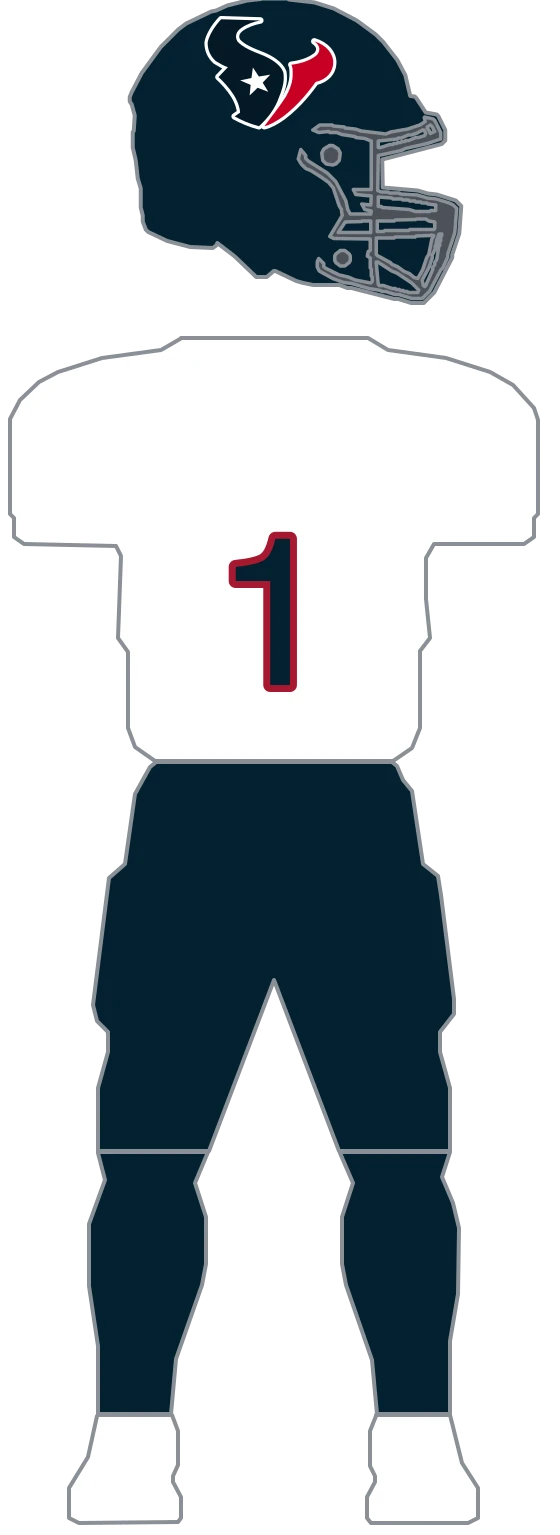
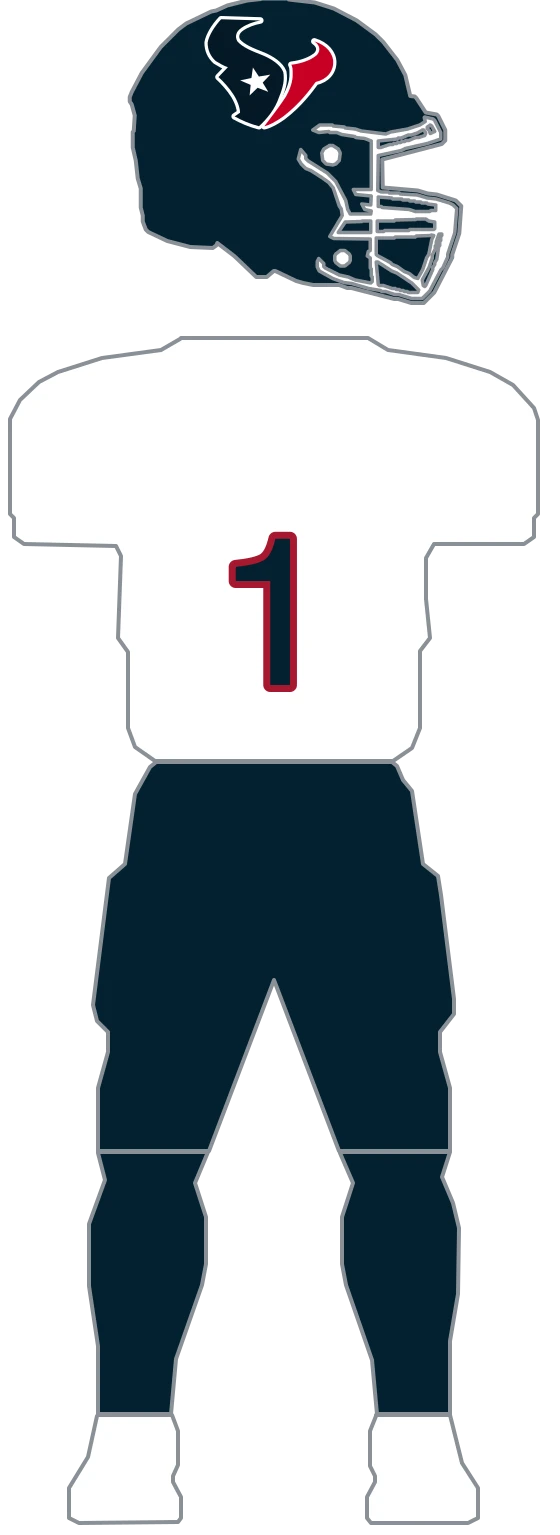
feat(uniforms): migrate Texans to composable parts and set its white facemask (#683)
Houston wears TWO different helmet marks: the two navy kits (home, away) share
the SAME navy shell with the hand-drawn bull (white keyline, navy head, red
horn, white star), and Battle Red wears a red shell with its own large stylized
horn. The three bodies and three pants differ: home navy-over-white, away
white-over-navy, Battle Red red-over-red. Parts express that: 2 helmets (H1
navy bull, H2 red horn), 3 jerseys, 3 pants, matching the measured target. The
bull is fixed art (same three colors on every shell), so it takes palette
literals rather than tokens.

The migration's parity gate proved all 9 texans rasters (3 kits x 2 variants)
byte-identical against the flat definition, then the flat definition and its
builder helpers were deleted and the team removed from MIGRATED, per the
one-time-proof lifecycle (depth#660). The collar arcs (`texans-collar-*`) were
module-private consts in the flat; they are now exported for the parts file.

Facemask follows the parts migration per phase order: both Texans shells wear
a white facemask (named sources; the GUD composite reads the white cage
cleanly against both the navy and red shells). Only the three -full rasters
move, each change confined to its helmet region.

Changed region(s): [[0.5768, 0.0612, 0.8196, 0.1837], [0.5464, 0.0919, 0.6071, 0.1225], [0.7286, 0.1837, 0.7589, 0.2143]]

diff --git a/lib/uniforms/teams/texans.ts b/lib/uniforms/teams/texans.ts
@@ -1,49 +1,15 @@
-import type { ColorRef, TeamUniformDefinition, UniformLayer } from './types';
+// Houston's construction geometry — the bull and Battle-Red horn paths, the collar arcs, and
+// the fixed construction colors only. The composable parts definition that consumes them lives in
+// ./texans.parts.ts; the former flat TEXANS_UNIFORMS was deleted in the migration that proved
+// parts render byte-identically (see parts-parity.test.ts for the one-time gate).
 
-// Houston's three archived kits, redrawn from the Gridiron Uniform Database 2025 composite in
-// nfl-uniform-refs/texans (home is that sheet's row-1 figure 1, away its row-1 figure 5, Battle Red
-// its row-2 figure 3). Right paths mirror the left across the centerline x=294.
-//
-// This is a minimal uniform and the module is correspondingly small — that is the measurement, not
-// an omission. No sleeve stripe, no pant stripe, no helmet stripe. The home kit carries a collar
-// trim; the other two carry none at all, so their only construction is the numeral treatment.
-//
-// The club's bull-horn mark sits on each sleeve and is NOT authored — at about 13x18 reference px
-// with a sub-2px white sliver through it, it is stroke-bearing detail well under the ~25px floor.
-//
-// HOUSTON WEARS TWO DIFFERENT HELMET MARKS, and this module authors both — differently, which is
-// the point of the note below.
-//
-// The BATTLE RED kit (row-2 figure 3) wears a large stylized horn sweeping across the whole crown,
-// drawn as one solid navy shape on a red shell. That path is a machine contour trace of GUD's
-// illustration and is a trace, not original geometry (see the provenance note below).
-//
-// The NAVY kits wear the club's standard bull HEAD — compact, horned, with a face, a red right half
-// and a white star. It is NOT the same mark, and an earlier pass that assumed it was painted the
-// Battle Red horn onto the home and away shells. What let that through was a weak registration
-// check: the away figure's star and red half landed *inside* the horn's silhouette, which they will
-// for almost any large shape. WHEN REUSING A MARK ACROSS FIGURES, COMPARE THE OUTLINES, not whether
-// the small features fall somewhere inside.
-//
-// THE BULL BELOW IS HAND-DRAWN, NOT TRACED, and it is the first mark in this archive to be so. It
-// is composed of cubic Beziers written directly, laid out in a 0-100 design box mapped onto the raw
-// helmet space at x284-554, y104-350 — where GUD draws the mark on the shell. Its proportions were
-// read off a percentage grid over a reference rendering: horn sweep, where the head narrows, where
-// the star sits. No path data was lifted from any source file. Verified by measuring the drawn
-// shape's horizontal extents at every eighth of its height against the same measurement of the
-// reference, which is a check the eye does not do reliably.
-//
-// This route was taken because the mark CANNOT be traced from the GUD sheet, for two coincident
-// reasons that are worth keeping: the bull's body is exactly the shell navy — both sample
-// (3,24,37) — so no predicate selects it; and its white keyline is drawn DASHED at that scale, so
-// nothing encloses it either. A morphological closing does not rescue it, because bridging gaps
-// that wide needs a dilation whose matching erosion guts the horns. Either problem alone is
-// survivable; Atlanta has the identical body-equals-shell collision and traces fine, because its
-// keyline is an unbroken ring.
-//
-// The keyline here is a STROKE rather than a grown fill, which is safe only because these curves
-// are hand-drawn and smooth. On a machine trace it would spike at every reversal, since this
-// renderer exposes no strokeLinejoin — that is why Detroit's is a grown fill instead.
+// HOUSTON WEARS TWO DIFFERENT HELMET MARKS. The navy kits wear the club's standard bull HEAD —
+// compact, horned, with a face, a red right half and a white star. It is hand-drawn (cubic
+// Beziers in a 0-100 design box mapped onto raw helmet space at x284-554, y104-350), NOT traced:
+// the bull's body is exactly the shell navy and its white keyline is drawn dashed at that scale,
+// so no predicate selects it. The keyline is a STROKE rather than a grown fill, safe only because
+// these curves are hand-drawn and smooth. The Battle Red kit wears a large stylized horn sweeping
+// the whole crown, a machine contour trace of GUD's illustration.
 export const TEXANS_BULL_NAVY_PATH =
   'M397.4,320.5 C413.6,305.7 429.8,286.0 437.9,261.4 C446.0,241.8 448.7,227.0 446.0,212.2 C440.6,197.5 421.7,185.2 402.8,177.8 C383.9,170.4 365.0,163.0 354.2,150.7 C348.8,140.9 351.5,131.1 362.3,123.7 C373.1,116.3 386.6,111.4 400.1,108.9 L321.8,106.5 C308.3,121.2 297.5,138.4 294.8,153.2 C294.8,168.0 300.2,180.3 311.0,190.1 C319.1,195.0 327.2,199.9 335.3,202.4 L316.4,222.1 C327.2,231.9 338.0,244.2 346.1,256.5 C354.2,268.8 359.6,283.6 359.6,293.4 L348.8,300.8 C362.3,308.2 378.5,315.6 397.4,320.5 Z';
 export const TEXANS_BULL_RED_PATH =
@@ -63,122 +29,13 @@ export const TEXANS_DECAL_RED = '#C80023'; // sampled (200,0,35)
 export const TEXANS_BATTLE_RED_DECAL_PATH =
   'M426.7,115.2 L483.8,118.4 L494.0,123.1 L505.7,123.9 L510.4,129.4 L480.7,138.0 L465.8,138.8 L438.4,149.8 L429.1,150.5 L407.2,166.2 L399.4,181.9 L399.4,200.8 L420.5,222.7 L451.0,241.6 L543.2,285.5 L587.8,299.7 L596.4,305.1 L606.5,305.9 L615.1,311.4 L625.3,312.2 L633.9,317.7 L660.5,323.2 L683.9,324.0 L681.6,327.1 L642.5,332.6 L623.0,326.3 L602.6,326.3 L592.5,321.6 L560.4,318.5 L554.2,314.6 L521.3,313.8 L508.8,320.8 L504.1,327.9 L499.4,327.1 L493.2,320.8 L483.8,319.3 L479.9,314.6 L471.3,313.0 L467.4,308.3 L434.5,294.2 L372.8,250.2 L354.0,225.9 L348.5,203.1 L361.0,167.0 L352.4,164.7 L338.4,181.1 L325.9,196.8 L323.5,211.8 L318.8,218.8 L325.1,262.0 L337.6,289.5 L384.5,336.5 L434.5,367.1 L441.6,367.1 L449.4,373.4 L472.8,380.5 L475.2,389.9 L488.5,405.6 L540.1,438.6 L546.3,456.6 L549.5,455.8 L549.5,465.2 L554.9,470.7 L556.5,482.5 L439.2,444.1 L349.3,400.9 L328.2,387.6 L297.7,360.9 L273.5,327.1 L266.4,312.2 L264.9,298.9 L260.2,291.0 L254.7,243.1 L258.6,238.4 L260.2,218.0 L266.4,201.6 L284.4,174.9 L304.0,154.5 L329.8,135.6 L360.3,123.9 L379.8,122.3 L387.6,117.6 L425.9,116.0 Z';
 
-// Out of scope on every kit: the chest wordmark, the league shield, the "H-TOWN" collar tab, the
-// sleeve mark above, and the shoulder numerals.
-
 // White is a literal on the home kit only. Its palette is navy over red with accent === secondary
 // (ESPN supplies only two colors), so nothing resolves to its white pants or white numeral face.
 export const TEXANS_WHITE = '#FFFFFF';
 
-// The collar, measured on the home figure (jersey top y=135, sleeve hem y=201, figure center
-// x=100.5, so scaleY = 191/66 and scaleX = 264/84.5). The red band runs from reference (74,138) to
-// (87,161) and mirrored. Extrapolated, the arms would not meet until y=186 — well past where the
-// color stops — so this is two arcs, not a chevron, the same shape Jacksonville and Denver wear.
-const TEXANS_COLLAR_LEFT = 'M211,392 L252,458';
-const TEXANS_COLLAR_RIGHT = 'M377,392 L336,458';
-const TEXANS_COLLAR_WIDTH = 10;
-
-const GENERIC_STRIPPED = [
-  'generic-helmet-stripe',
-  'generic-sleeve-yoke-left',
-  'generic-sleeve-yoke-right',
-  'generic-sleeve-stripe-left',
-  'generic-sleeve-stripe-right',
-  'generic-collar',
-  'generic-pants-stripe-left',
-  'generic-pants-stripe-right',
-];
-
-function collar(stroke: ColorRef): UniformLayer[] {
-  return [
-    ['texans-collar-left', TEXANS_COLLAR_LEFT],
-    ['texans-collar-right', TEXANS_COLLAR_RIGHT],
-  ].map(([id, d]) => ({
-    id,
-    surface: 'collar' as const,
-    d,
-    clip: true,
-    kind: 'stroke' as const,
-    stroke,
-    strokeWidth: TEXANS_COLLAR_WIDTH,
-  }));
-}
-
-// The bull the navy shells wear: white keyline under a navy head and a red horn, star last.
-function bullDecal(): UniformLayer[] {
-  const keyline: UniformLayer[] = (
-    [
-      ['texans-bull-keyline-navy', TEXANS_BULL_NAVY_PATH],
-      ['texans-bull-keyline-red', TEXANS_BULL_RED_PATH],
-    ] as [string, string][]
-  ).map(([id, d]) => ({
-    id,
-    surface: 'helmet' as const,
-    d,
-    clip: true,
-    kind: 'stroke' as const,
-    stroke: TEXANS_WHITE,
-    strokeWidth: TEXANS_BULL_KEYLINE_WIDTH,
-  }));
-
-  const fills: UniformLayer[] = (
-    [
-      ['texans-bull-head', TEXANS_BULL_NAVY_PATH, TEXANS_DECAL_NAVY],
-      ['texans-bull-horn', TEXANS_BULL_RED_PATH, TEXANS_DECAL_RED],
-      ['texans-bull-star', TEXANS_BULL_STAR_PATH, TEXANS_WHITE],
-    ] as [string, string, ColorRef][]
-  ).map(([id, d, fill]) => ({
-    id,
-    surface: 'helmet' as const,
-    d,
-    clip: true,
-    kind: 'fill' as const,
-    fill,
-  }));
-
-  return [...keyline, ...fills];
-}
-
-// The Battle Red shell's own, different mark.
-function battleRedDecal(): UniformLayer[] {
-  return [
-    {
-      id: 'texans-decal-battle-red-horn',
-      surface: 'helmet',
-      d: TEXANS_BATTLE_RED_DECAL_PATH,
-      clip: true,
-      kind: 'fill',
-      fill: TEXANS_DECAL_NAVY,
-    },
-  ];
-}
-
-export const TEXANS_UNIFORMS: TeamUniformDefinition = {
-  teamId: 'texans',
-  defaults: { removeLayerIds: GENERIC_STRIPPED },
-  kits: {
-    // Navy body over white pants under the navy shell. Red is `secondary` and accent === secondary,
-    // so red carries the collar and the numeral keyline while white — which this palette cannot
-    // supply — takes the literal for both the pants and the numeral face.
-    home: {
-      pantsColor: TEXANS_WHITE,
-      layers: [...collar('secondary'), ...bullDecal()],
-      number: { fill: TEXANS_WHITE, outline: 'secondary', outlineWidth: 14 },
-    },
-    // White body over navy pants under the navy shell, and no collar trim — the reference draws its
-    // neckline in outline only. The away palette moves white into primary, navy into secondary and
-    // red into accent, so the numerals invert to a navy face on a red keyline.
-    away: {
-      helmetColor: 'secondary',
-      pantsColor: 'secondary',
-      layers: bullDecal(),
-      number: { fill: 'secondary', outline: 'accent', outlineWidth: 14 },
-    },
-    // Red body, pants and shell, all `primary`, and no collar trim. Navy moves to `secondary` and
-    // white is available as `accent`, so the numerals need no literal here.
-    'battle-red': {
-      layers: battleRedDecal(),
-      number: { fill: 'secondary', outline: 'accent', outlineWidth: 14 },
-    },
-  },
-};
+// The collar, measured on the home figure. The red band runs from reference (74,138) to (87,161)
+// and mirrored. Extrapolated, the arms would not meet until y=186 — so this is two arcs, not a
+// chevron, the same shape Jacksonville and Denver wear.
+export const TEXANS_COLLAR_LEFT = 'M211,392 L252,458';
+export const TEXANS_COLLAR_RIGHT = 'M377,392 L336,458';
+export const TEXANS_COLLAR_WIDTH = 10;

diff --git a/lib/uniforms/teams/texans.parts.ts b/lib/uniforms/teams/texans.parts.ts
@@ -1,0 +1,185 @@
+// Houston authored as composable parts. Geometry is imported unchanged from texans.ts — this file
+// only restates WHICH parts each kit combines, and names every color from the team palette instead
+// of the kit row's shifting primary/secondary/accent.
+//
+// This is a minimal uniform: no sleeve stripe, no pant stripe, no helmet stripe. The two navy
+// kits (home, away) share the SAME navy shell wearing the hand-drawn bull (white keyline, navy
+// head, red horn, white star); the Battle Red kit wears a RED shell with its own different mark, a
+// large stylized horn sweeping the crown. The three bodies and three pants differ: home is
+// navy-over-white, away white-over-navy, Battle Red red-over-red.
+
+import {
+  TEXANS_BATTLE_RED_DECAL_PATH,
+  TEXANS_BULL_KEYLINE_WIDTH,
+  TEXANS_BULL_NAVY_PATH,
+  TEXANS_BULL_RED_PATH,
+  TEXANS_BULL_STAR_PATH,
+  TEXANS_COLLAR_LEFT,
+  TEXANS_COLLAR_RIGHT,
+  TEXANS_COLLAR_WIDTH,
+  TEXANS_DECAL_NAVY,
+  TEXANS_DECAL_RED,
+} from './texans';
+import { compileParts, type PartLayer, type TeamPartsDefinition, type UniformPart } from './parts';
+
+// The navy shell's collar trim (home only): two arcs, not a chevron (the arms never meet).
+function collar(): PartLayer[] {
+  return [
+    {
+      id: 'texans-collar-left',
+      surface: 'collar',
+      d: TEXANS_COLLAR_LEFT,
+      clip: true,
+      kind: 'stroke',
+      stroke: 'red',
+      strokeWidth: TEXANS_COLLAR_WIDTH,
+    },
+    {
+      id: 'texans-collar-right',
+      surface: 'collar',
+      d: TEXANS_COLLAR_RIGHT,
+      clip: true,
+      kind: 'stroke',
+      stroke: 'red',
+      strokeWidth: TEXANS_COLLAR_WIDTH,
+    },
+  ];
+}
+
+// The bull the navy shells wear: white keyline under a navy head and a red horn, star last. Fixed
+// art — the mark is the same three colors on every shell, so nothing here takes a team token.
+function bullDecal(): PartLayer[] {
+  return [
+    {
+      id: 'texans-bull-keyline-navy',
+      surface: 'helmet',
+      d: TEXANS_BULL_NAVY_PATH,
+      clip: true,
+      kind: 'stroke',
+      stroke: 'white',
+      strokeWidth: TEXANS_BULL_KEYLINE_WIDTH,
+    },
+    {
+      id: 'texans-bull-keyline-red',
+      surface: 'helmet',
+      d: TEXANS_BULL_RED_PATH,
+      clip: true,
+      kind: 'stroke',
+      stroke: 'white',
+      strokeWidth: TEXANS_BULL_KEYLINE_WIDTH,
+    },
+    {
+      id: 'texans-bull-head',
+      surface: 'helmet',
+      d: TEXANS_BULL_NAVY_PATH,
+      clip: true,
+      kind: 'fill',
+      fill: 'decalNavy',
+    },
+    {
+      id: 'texans-bull-horn',
+      surface: 'helmet',
+      d: TEXANS_BULL_RED_PATH,
+      clip: true,
+      kind: 'fill',
+      fill: 'decalRed',
+    },
+    {
+      id: 'texans-bull-star',
+      surface: 'helmet',
+      d: TEXANS_BULL_STAR_PATH,
+      clip: true,
+      kind: 'fill',
+      fill: 'white',
+    },
+  ];
+}
+
+// The navy shell with the bull — one object, shared by home and away. The bull is fixed art; its
+// keyline is a stroke (safe here only because the curves are hand-drawn, see texans.ts).
+//
+// White cage. The Texans' navy shell wears a white facemask (named sources; the navy shell + white
+// cage reads cleanly in the GUD composite). The shared neutral #4b5158 it replaces is a grey that
+// floats against the navy.
+const HELMET_NAVY_BULL: UniformPart = {
+  base: 'navy',
+  facemask: 'white',
+  layers: bullDecal(),
+};
+
+// Battle Red's red shell with its own large stylized horn — a different mark from the bull.
+//
+// White cage. Battle Red wears the same white facemask as the navy shell (named sources; the red
+// shell + white cage reads cleanly).
+const HELMET_RED_HORN: UniformPart = {
+  base: 'red',
+  facemask: 'white',
+  layers: [
+    {
+      id: 'texans-decal-battle-red-horn',
+      surface: 'helmet',
+      d: TEXANS_BATTLE_RED_DECAL_PATH,
+      clip: true,
+      kind: 'fill',
+      fill: 'decalNavy',
+    },
+  ],
+};
+
+// Home jersey: navy body, red collar trim, white numerals keylined red.
+const JERSEY_NAVY: UniformPart = {
+  base: 'navy',
+  layers: collar(),
+  number: { fill: 'white', outline: 'red', outlineWidth: 14 },
+};
+
+// Away jersey: white body, no collar trim, navy numerals keylined red.
+const JERSEY_WHITE: UniformPart = {
+  base: 'white',
+  layers: [],
+  number: { fill: 'navy', outline: 'red', outlineWidth: 14 },
+};
+
+// Battle Red jersey: red body, no collar trim, navy numerals keylined white.
+const JERSEY_RED: UniformPart = {
+  base: 'red',
+  layers: [],
+  number: { fill: 'navy', outline: 'white', outlineWidth: 14 },
+};
+
+// Home pants, white.
+const PANTS_WHITE: UniformPart = { base: 'white', layers: [] };
+
+// Away pants, navy.
+const PANTS_NAVY: UniformPart = { base: 'navy', layers: [] };
+
+// Battle Red pants, red.
+const PANTS_RED: UniformPart = { base: 'red', layers: [] };
+
+export const TEXANS_PARTS: TeamPartsDefinition = {
+  teamId: 'texans',
+  // Jersey hexes from the curated rows (teamcolorcodes). Navy and red are the physical body/shell
+  // colors carried in different primary/secondary/accent slots per row; the decal's navy/red are
+  // the sampled fixed-art colors (see texans.ts).
+  palette: {
+    navy: '#03202F',
+    red: '#A71930',
+    white: '#FFFFFF',
+    decalNavy: TEXANS_DECAL_NAVY,
+    decalRed: TEXANS_DECAL_RED,
+  },
+  helmets: { 'navy-bull': HELMET_NAVY_BULL, 'red-horn': HELMET_RED_HORN },
+  jerseys: {
+    navy: JERSEY_NAVY,
+    white: JERSEY_WHITE,
+    red: JERSEY_RED,
+  },
+  pants: { white: PANTS_WHITE, navy: PANTS_NAVY, red: PANTS_RED },
+  kits: {
+    home: { helmet: 'navy-bull', jersey: 'navy', pants: 'white' },
+    away: { helmet: 'navy-bull', jersey: 'white', pants: 'navy' },
+    'battle-red': { helmet: 'red-horn', jersey: 'red', pants: 'red' },
+  },
+};
+
+export const TEXANS_UNIFORMS_FROM_PARTS = compileParts(TEXANS_PARTS);

diff --git a/lib/uniforms/teams/index.ts b/lib/uniforms/teams/index.ts
@@ -28,7 +28,7 @@ import { RAVENS_UNIFORMS } from './ravens';
 import { SAINTS_UNIFORMS_FROM_PARTS } from './saints.parts';
 import { SEAHAWKS_UNIFORMS_FROM_PARTS } from './seahawks.parts';
 import { STEELERS_UNIFORMS_FROM_PARTS } from './steelers.parts';
-import { TEXANS_UNIFORMS } from './texans';
+import { TEXANS_UNIFORMS_FROM_PARTS } from './texans.parts';
 import { TITANS_UNIFORMS } from './titans';
 import { VIKINGS_UNIFORMS } from './vikings';
 import type { TeamUniformDefinition } from './types';
@@ -67,7 +67,7 @@ const DEFINITIONS: Readonly<Partial<Record<string, TeamUniformDefinition>>> = {
   saints: SAINTS_UNIFORMS_FROM_PARTS,
   seahawks: SEAHAWKS_UNIFORMS_FROM_PARTS,
   steelers: STEELERS_UNIFORMS_FROM_PARTS,
-  texans: TEXANS_UNIFORMS,
+  texans: TEXANS_UNIFORMS_FROM_PARTS,
   titans: TITANS_UNIFORMS,
   vikings: VIKINGS_UNIFORMS,
 };
